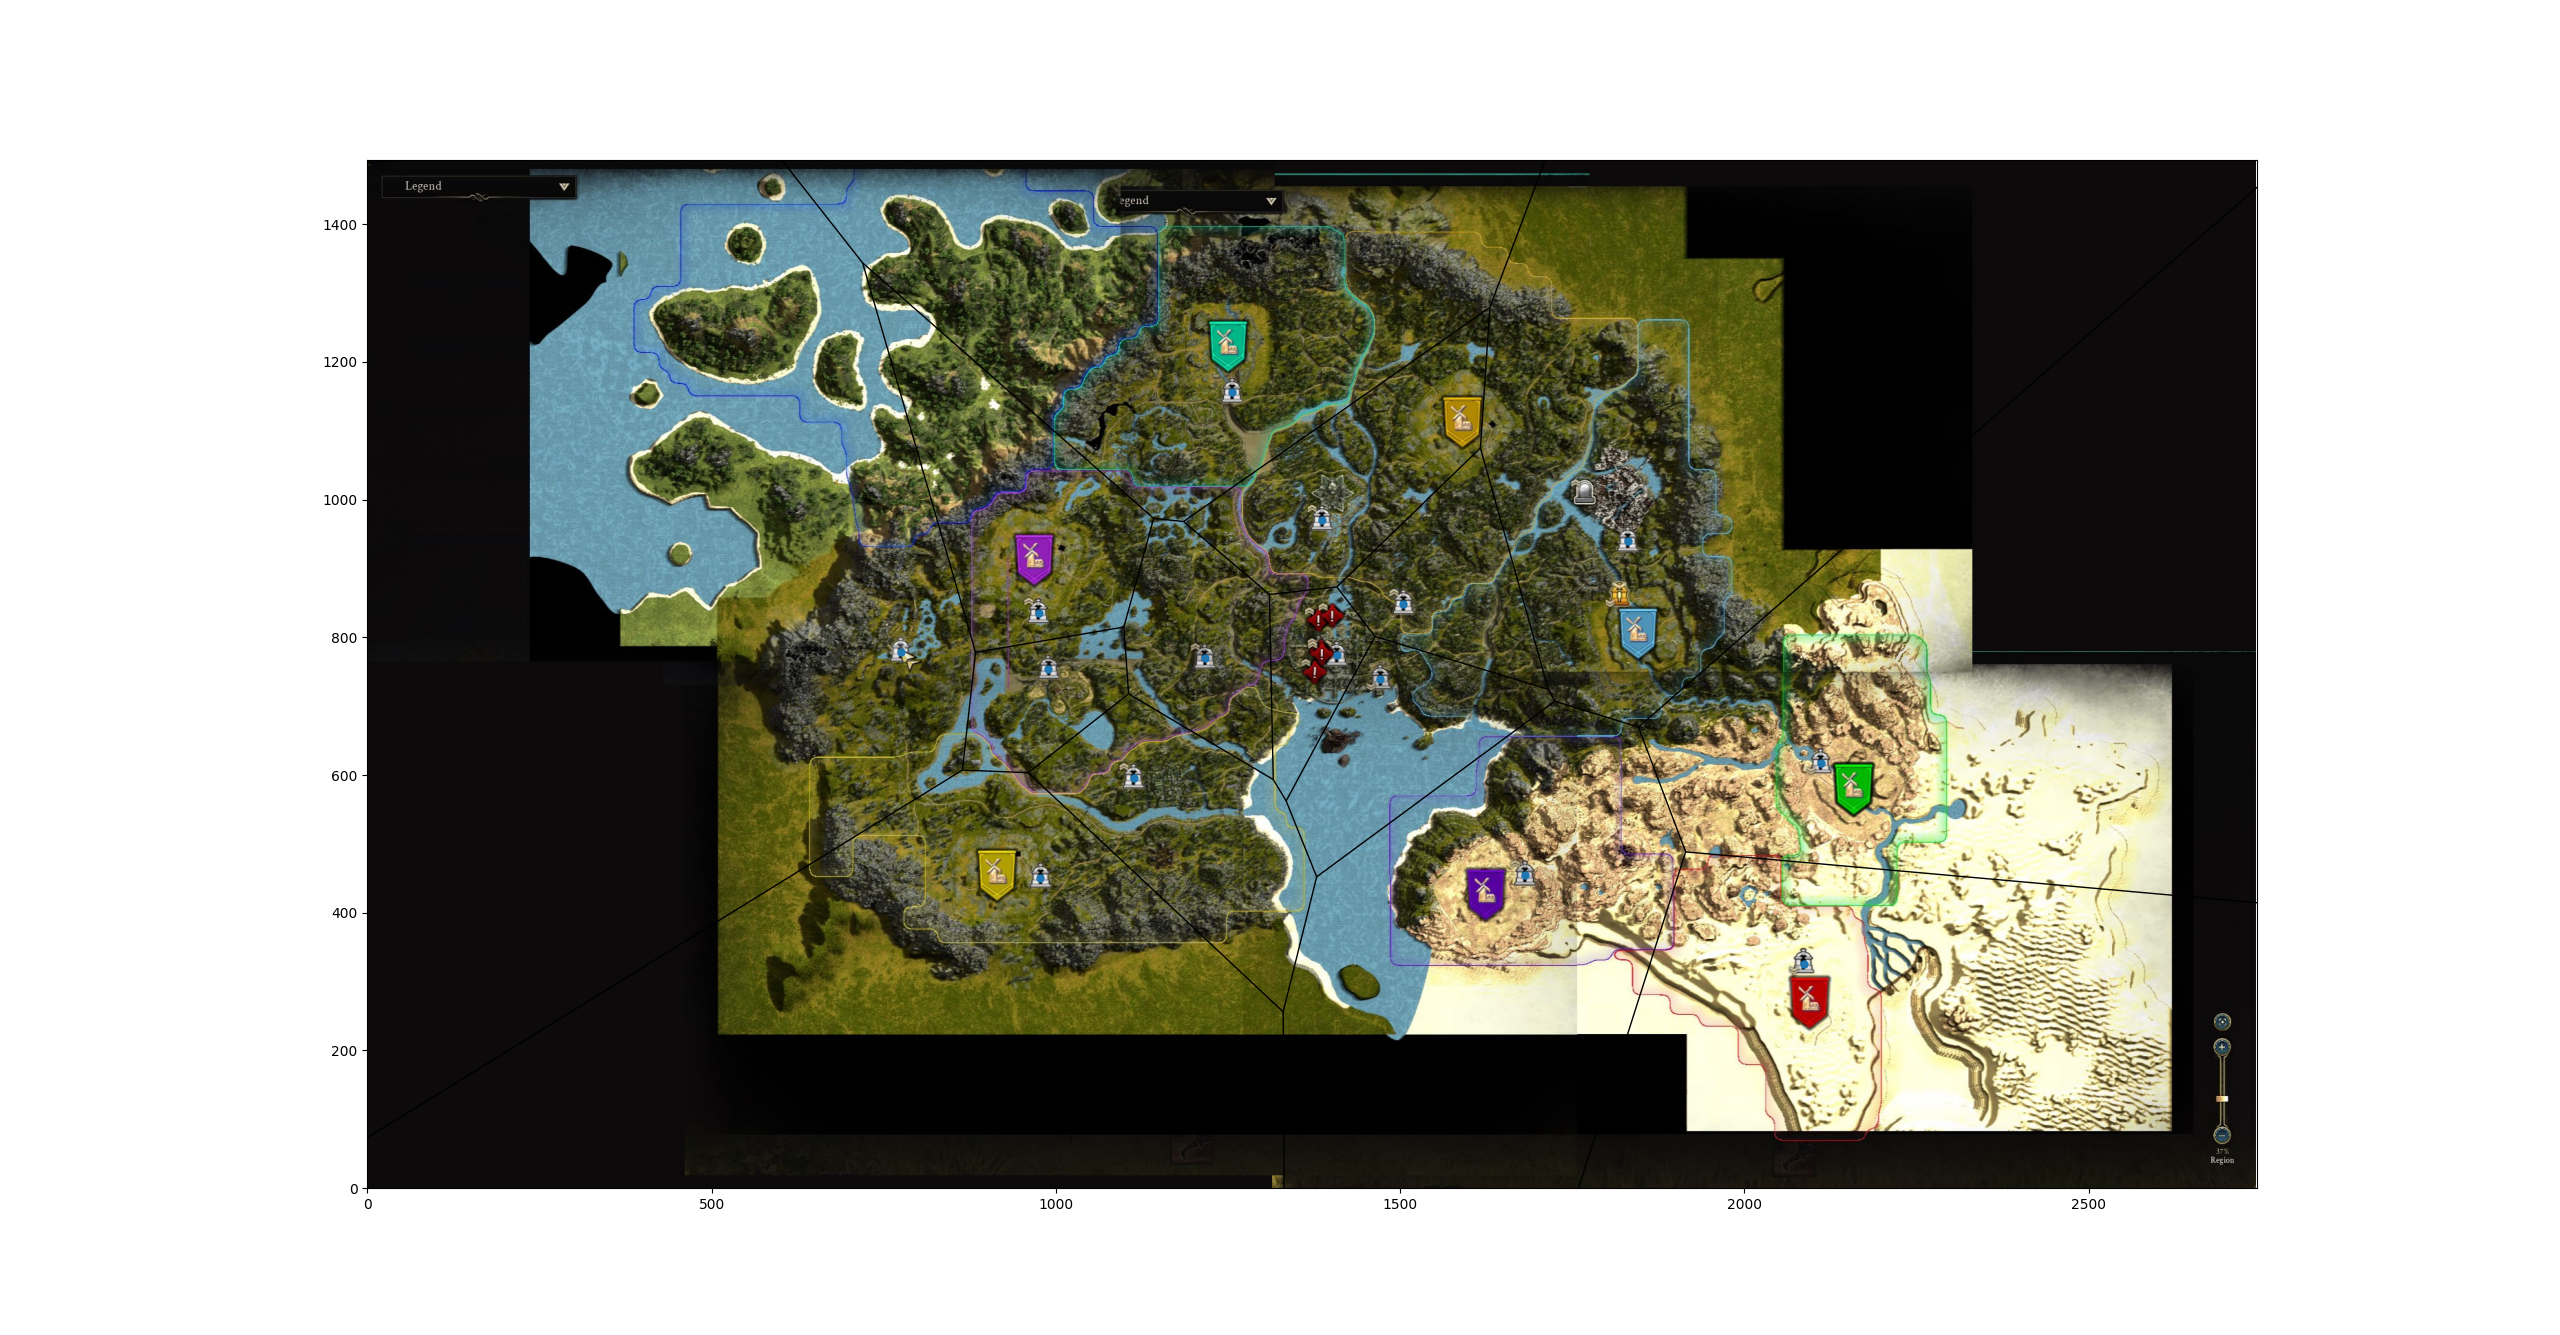
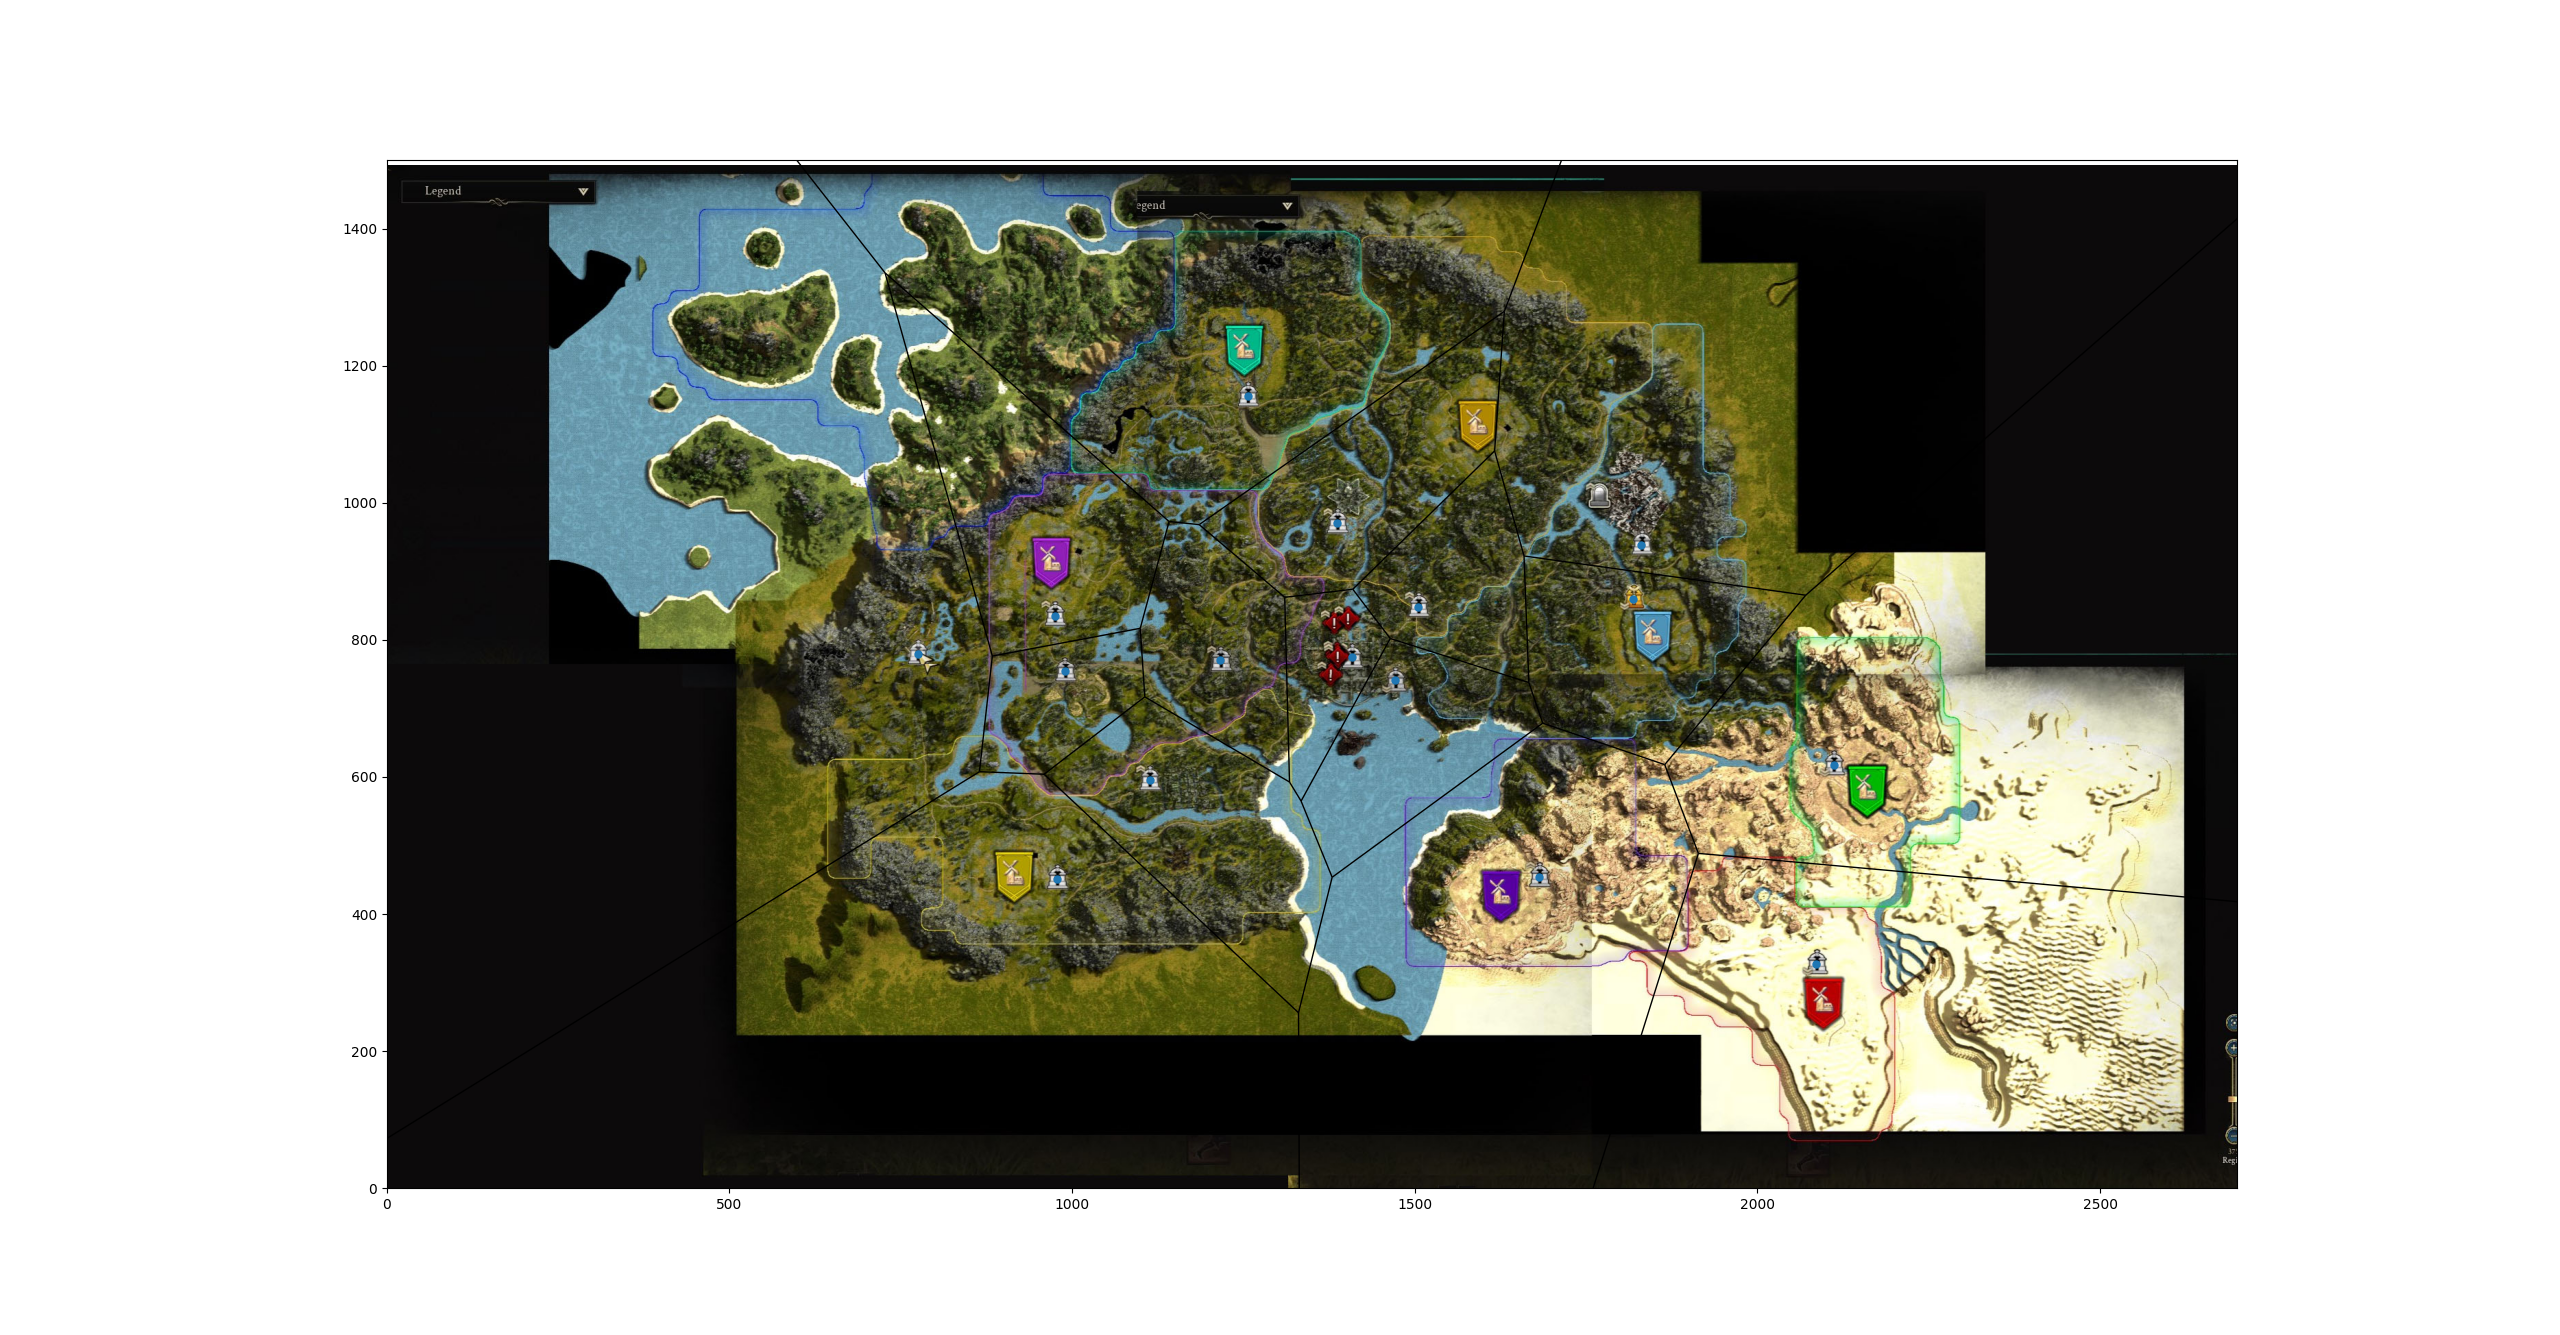
fixed missing shrine for A2 map

Changed region(s): [[0.125, 0.1228, 0.9062, 0.8906]]

diff --git a/Voronoi.py b/Voronoi.py
@@ -14,17 +14,9 @@ img = np.fliplr(plt.imread('Original_Map.jpg'))
 # points on the figure
 points = [
 [-9999, -999], [9999, -9999], [-9999, 9999], [9999, 9999], #masks dotted lines going infinitely
-[236, 606], [282, 566], [294, 468], [330, 440],
-[360, 472], [360, 436], [406, 470], [460, 454],
-[516, 420], [526, 386], [380, 346], [340, 300],
-[454, 242], [474, 270], [522, 306], [554, 282],
-[677, 220], [790, 360], [866, 370], [740, 425],
-[805, 470], [860, 480], [825, 570], [780, 642],
-[695, 620], [560, 615], [540, 740], [780, 740],
-[725, 790], [639, 809], [650, 880], [566, 843],
-[470, 830], [453, 800], [430, 723], [445, 675],
-[357, 650], [302, 697], [257, 722], [325, 777],
-[232, 290], [602, 656]
+[775, 779], [978, 451], [975, 835], [990, 755], [1113, 595], [1216, 770], [1256, 1156], 
+[1386, 970], [1505, 848], [1409, 775], [1471, 741], [1830, 939], [1819, 860], [2111, 617], 
+[1681, 454], [2085, 327]
 
 ]
 
@@ -50,8 +42,8 @@ voronoi_plot_2d(vor, show_vertices=False, point_size=10, ax=ax)
         # plt.fill(*zip(*polygon), alpha=0.45)
 
 # axes limits (otherwise it automatiically fits to the figure and cuts off the image)
-ax.set_xlim(-0, 1024)
-ax.set_ylim(-0, 1024)
+ax.set_xlim(-0, 2700)
+ax.set_ylim(-0, 1500)
 
 # displays the plot
 plt.show()
